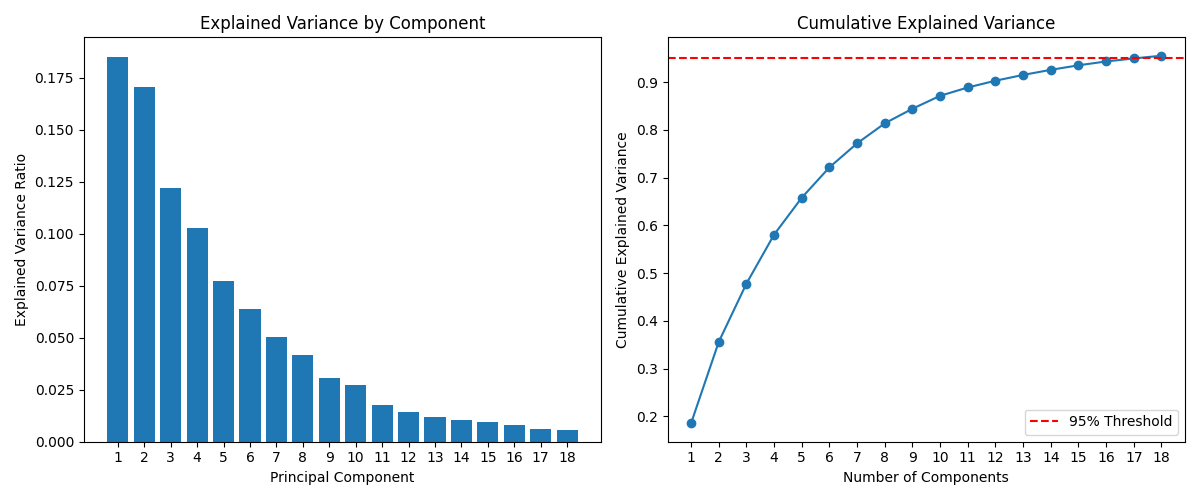
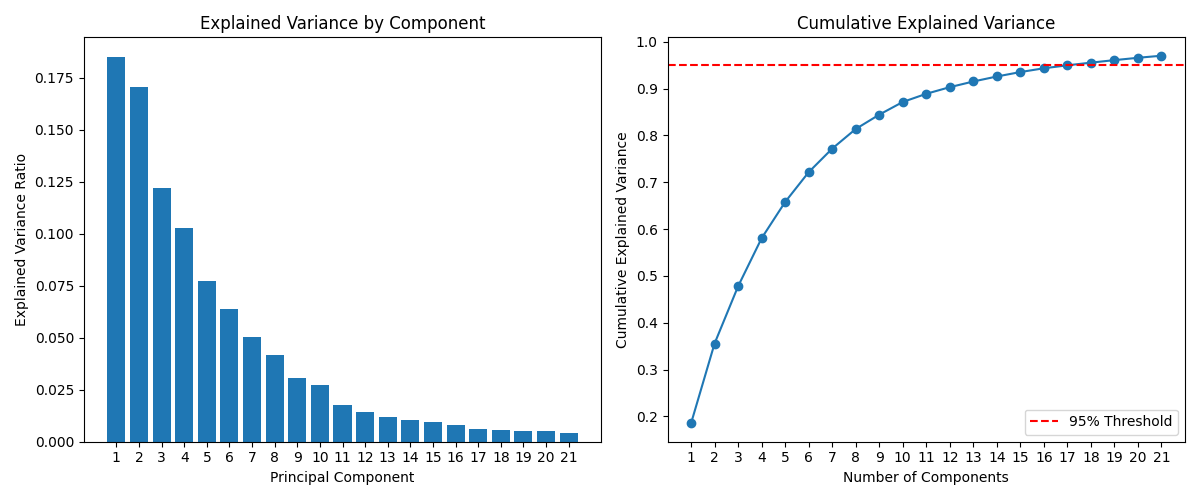
Fixing feature selection and using only PCA

diff --git a/Feature_Selection_and_Optimization.py b/Feature_Selection_and_Optimization.py
@@ -19,7 +19,7 @@ This set of functions helps determine which features are most important for pred
 (Sharpe transaction values) and selects optimal feature subsets to improve model performance.
 """
 
-def select_features_with_pca(X_train, n_components=None, variance_threshold=0.95):
+def select_features_with_pca(X_train, n_components=None, variance_threshold=0.90):
     """
     Select features using Principal Component Analysis (PCA).
     
@@ -38,6 +38,7 @@ def select_features_with_pca(X_train, n_components=None, variance_threshold=0.95
         - 'explained_variance_ratio': Explained variance ratio for each component
         - 'cumulative_variance_ratio': Cumulative explained variance ratio
     """
+    
     # Scale the features (PCA is sensitive to feature scaling)
     scaler = RobustScaler()
     X_train_scaled = scaler.fit_transform(X_train)
@@ -104,6 +105,46 @@ def plot_pca_explained_variance(pca_result):
     
     plt.tight_layout()
     plt.savefig('pca_explained_variance.png')
+    plt.close()
+
+def plot_pca_component_contributions(pca_result, X_train, top_n_features=10):
+    """
+    Plot the contribution of original features to principal components.
+    
+    Parameters:
+    -----------
+    pca_result : dict, Output from select_features_with_pca function
+    X_train : DataFrame, Original training features to get feature names
+    top_n_features : int, Number of top contributing features to display
+    """
+    pca = pca_result['pca']
+    components = pca.components_
+    feature_names = X_train.columns
+    
+    plt.figure(figsize=(15, 10))
+    
+    # Plot for top components
+    num_components_to_plot = min(3, pca_result['components_selected'])
+    
+    for i in range(num_components_to_plot):
+        plt.subplot(num_components_to_plot, 1, i+1)
+        
+        # Get absolute component values for ranking
+        abs_components = np.abs(components[i])
+        
+        # Get indices of top contributing features
+        indices = np.argsort(abs_components)[-top_n_features:]
+        
+        # Create horizontal bar chart
+        plt.barh(range(top_n_features), abs_components[indices], color='skyblue')
+        plt.yticks(range(top_n_features), [feature_names[j] for j in indices])
+        plt.xlabel('Absolute Contribution')
+        plt.title(f'Top {top_n_features} Features Contributing to Principal Component {i+1}')
+        plt.tight_layout()
+    
+    plt.tight_layout(rect=[0, 0, 1, 0.95])
+    plt.suptitle('Feature Contributions to Top Principal Components', fontsize=16)
+    plt.savefig('pca_feature_contributions.png')
     plt.close()
 
 def analyze_feature_importance(X_train, Y_train, model_type='xgboost'):
@@ -272,9 +313,10 @@ def select_best_features(X_train, Y_train, threshold=0.8, method='importance'):
         # PCA-based feature selection
         pca_results = select_features_with_pca(X_train, variance_threshold=threshold)
         selected_features = pca_results  # Return the PCA results dictionary
-        
         # Plot PCA explained variance
         plot_pca_explained_variance(pca_results)
+        # Plot feature contributions to components
+        plot_pca_component_contributions(pca_results, X_train, top_n_features=10)
 
 
 
@@ -284,22 +326,25 @@ def select_best_features(X_train, Y_train, threshold=0.8, method='importance'):
 def evaluate_feature_sets(X_train, Y_train):
     """
     Compare performance of different feature selection methods using multiple model types.
+    With emphasis on PCA for maximizing prediction accuracy.
+    
     Parameters:
     -----------
     X_train : DataFrame, Training features
     Y_train : Series, Target variable
         
     Returns:
+    --------
     Dictionary containing detailed results and best feature information
     """
     
     # Define feature selection methods
     methods = {
-        'All Features': X_train.columns.tolist(),
-        'XGBoost Top 80%': select_best_features(X_train, Y_train, threshold=0.8, method='importance'),
-        'RFECV': select_best_features(X_train, Y_train, method='rfecv'),
-        'Lasso': select_best_features(X_train, Y_train, method='lasso'),
-        'PCA 95%': select_best_features(X_train, Y_train, threshold=0.95, method='pca')
+        #'All Features': X_train.columns.tolist(),
+        'PCA 85%': select_best_features(X_train, Y_train, threshold=0.85, method='pca'),
+        'PCA 90%': select_best_features(X_train, Y_train, threshold=0.90, method='pca'),
+        'PCA 95%': select_best_features(X_train, Y_train, threshold=0.95, method='pca'),
+        'PCA 97%': select_best_features(X_train, Y_train, threshold=0.97, method='pca')
     }
 
     # Define different model types to evaluate feature sets
@@ -316,10 +361,14 @@ def evaluate_feature_sets(X_train, Y_train):
 
     # Evaluate each feature set with each model type
     for method_name, features in methods.items():
-        print(f"Evaluating feature set: {method_name} with {len(features)} features")
+        if method_name == 'All Features':
+            print(f"Evaluating feature set: {method_name} with {len(features)} features")
+        else:
+            print(f"Evaluating feature set: {method_name}")
+        
 
-        # Handle PCA differently
-        if method_name == 'PCA 95%':
+        # Handle PCA methods
+        if 'PCA' in method_name:
             print(f"Using PCA with {features['components_selected']} components")
             pca_obj = features['pca']
             scaler = features['scaler']
